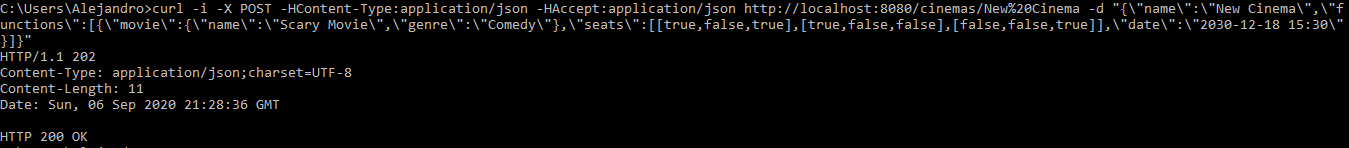
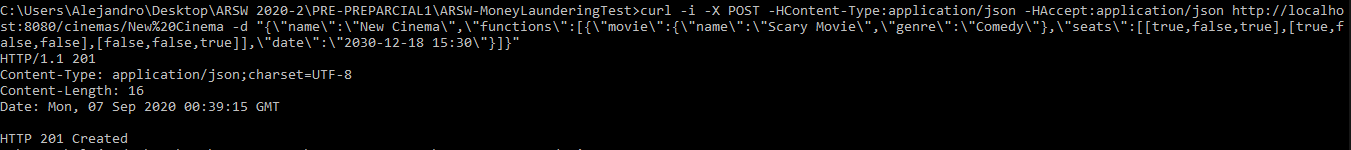
PUT LISTO

diff --git a/src/main/java/edu/eci/arsw/cinema/controllers/CinemaAPIController.java b/src/main/java/edu/eci/arsw/cinema/controllers/CinemaAPIController.java
@@ -13,6 +13,7 @@ import java.util.logging.Logger;
 import com.fasterxml.jackson.core.JsonProcessingException;
 import com.fasterxml.jackson.databind.JsonNode;
 import com.fasterxml.jackson.databind.ObjectMapper;
+import com.fasterxml.jackson.databind.ObjectReader;
 import com.fasterxml.jackson.databind.exc.UnrecognizedPropertyException;
 import edu.eci.arsw.cinema.model.Cinema;
 import edu.eci.arsw.cinema.model.CinemaFunction;
@@ -90,19 +91,37 @@ public class CinemaAPIController {
     }
 
     @RequestMapping(value="/{name}", method = RequestMethod.POST)
-    public ResponseEntity<?> controladorNuevoRecurso(@RequestBody String body, @PathVariable String name){
+    public ResponseEntity<?> controladorNuevoCinema(@RequestBody String body, @PathVariable String name){
         try {
             JsonNode root = objectMapper.readTree(body);
             Cinema nuevo = objectMapper.readValue(body, Cinema.class);
-            if(!nuevo.getName().equals(name)){
+            if(!name.equals(nuevo.getName())){
                 return new ResponseEntity<>("HTTP 403 Forbidden",HttpStatus.FORBIDDEN);
             }
             cinemaServices.addNewCinema(nuevo);
-            return new ResponseEntity<>("HTTP 200 OK",HttpStatus.ACCEPTED);
+            return new ResponseEntity<>("HTTP 201 Created",HttpStatus.CREATED);
         } catch (IOException ex){
             Logger.getLogger(CinemaAPIController.class.getName()).log(Level.SEVERE, null, ex);
             return new ResponseEntity<>("HTTP 400 Bad Request",HttpStatus.BAD_REQUEST);
         } catch (CinemaException ex) {
+            Logger.getLogger(CinemaAPIController.class.getName()).log(Level.SEVERE, null, ex);
+            return new ResponseEntity<>("HTTP 403 Forbidden",HttpStatus.FORBIDDEN);
+        }
+    }
+
+
+    @RequestMapping(value="/{name}", method = RequestMethod.PUT)
+    public ResponseEntity<?>  manejadorUpdateCinema(@RequestBody String body, @PathVariable String name){
+        try {
+            Cinema point = cinemaServices.getCinemaByName(name);
+            cinemaServices.removeCinema(name);
+            ObjectReader reader = objectMapper.readerForUpdating(point);
+            reader.readValue(body);
+            cinemaServices.addNewCinema(point);
+            return new ResponseEntity<>("HTTP 202 Accepted",HttpStatus.ACCEPTED);
+        } catch (CinemaException ex) {
+            return controladorNuevoCinema(body, name);
+        } catch (IOException ex) {
             Logger.getLogger(CinemaAPIController.class.getName()).log(Level.SEVERE, null, ex);
             return new ResponseEntity<>("HTTP 403 Forbidden",HttpStatus.FORBIDDEN);
         }

diff --git a/src/main/java/edu/eci/arsw/cinema/persistence/CinemaPersitence.java b/src/main/java/edu/eci/arsw/cinema/persistence/CinemaPersitence.java
@@ -76,5 +76,10 @@ public interface CinemaPersitence {
      * @return Cinemas
      */
 	public Set<Cinema> getCinemas();
-    
+
+    /**
+     * Deletes a Cinema
+     * @param name Name of the cinema
+     */
+	public void removeCinema(String name) ;
 }

diff --git a/src/main/java/edu/eci/arsw/cinema/persistence/impl/InMemoryCinemaPersistence.java b/src/main/java/edu/eci/arsw/cinema/persistence/impl/InMemoryCinemaPersistence.java
@@ -144,4 +144,9 @@ public class InMemoryCinemaPersistence implements CinemaPersitence {
         return cines;
     }
 
+    @Override
+    public void removeCinema(String name){
+        cinemas.remove(name);
+    }
+
 }

diff --git a/src/main/java/edu/eci/arsw/cinema/services/CinemaServices.java b/src/main/java/edu/eci/arsw/cinema/services/CinemaServices.java
@@ -119,4 +119,8 @@ public class CinemaServices {
     public CinemaFilter getFilter(){
         return filter;
     }
+
+    public void removeCinema(String name){
+        cps.removeCinema(name);
+    }
 }

diff --git a/README.md b/README.md
@@ -91,6 +91,25 @@ Si el formato json no está bien formado(Campos inconsistentes o que no existen 
 
 ![](img/BAD_R.PNG)
 
+No es posible la creación de cinemas si el json contradice la recurso indicado en la URI.
+
+![](img/CONTRA.PNG)
+
+## Creación de PUT
+
+La creación del cinema se hace si este no existía previamente.
+En este caso el recurso se crea de 0.
+
+![](img/CMD_PUT_CREACION.PNG)
+
+![](img/CREACION_PUT.PNG)
+
+Ahora vamos a modificar este cinema. En el caso del nombre, solo es posible cambiarlo siempre y cuando no exista un cinema con el nuevo nombre.
+
+![](img/PUT_MOD.PNG)
+
+![](img/PUT_UPDATED.PNG)
+
 ## Contribuciones
 
 * **Alejandro Vasquez** - *Extender* - [alejovasquero](https://github.com/alejovasquero)
